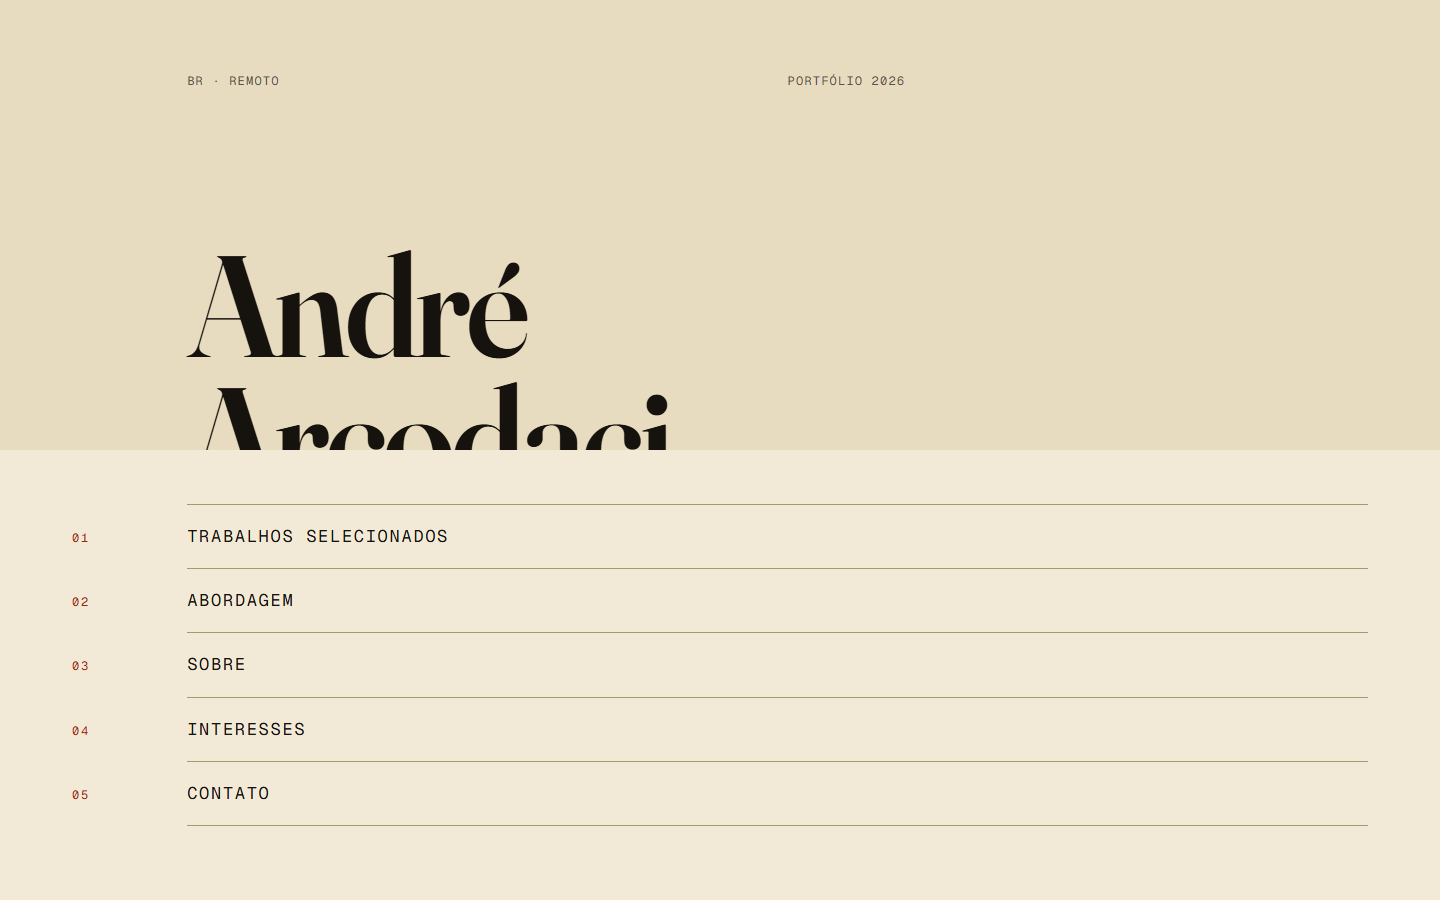
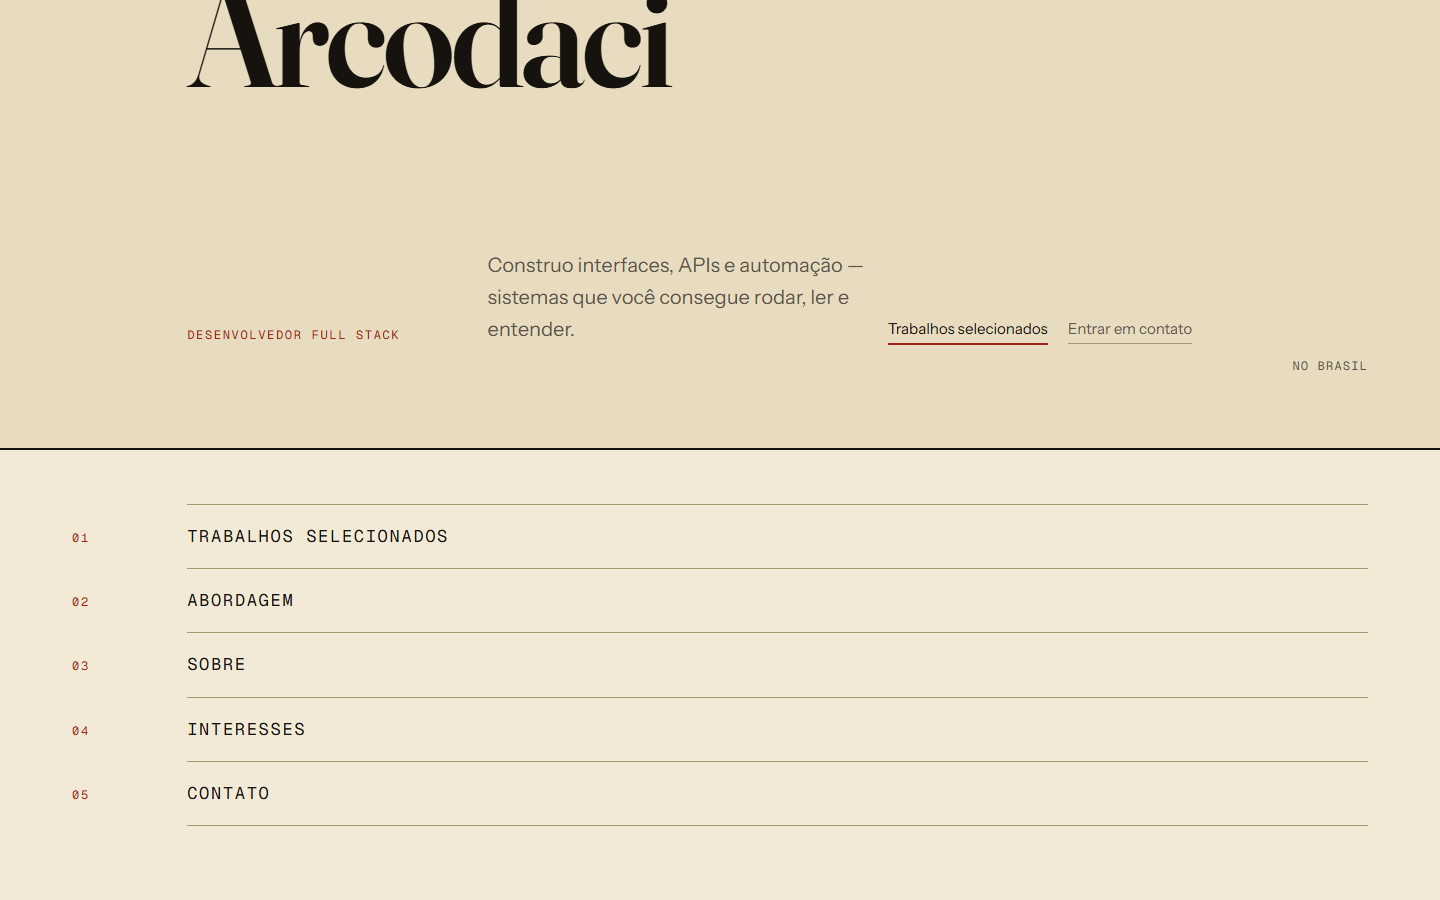
fix: CTAs clicáveis com a página rolada, hero alcançável em tela baixa e com reduced motion
- foco só por teclado e só em elemento coberto volta o hero à vista; um
  clique não move mais a página entre mousedown e mouseup
- hero preso só com o Opening ativo; sem JS e com reduced motion fica no
  fluxo, como no Gate 2
- hero mais alto que a janela prende com top negativo
- voltar do navegador para a home rolada não repete a entrada

diff --git a/src/motion/Opening.tsx b/src/motion/Opening.tsx
@@ -22,6 +22,21 @@ export function Opening({ children }: { children: ReactNode }) {
   useLayoutEffect(() => {
     const root = ref.current
     if (!root || prefersReducedMotion()) return
+    const hero = root.firstElementChild as HTMLElement | null
+    const sheet = hero?.nextElementSibling ?? null
+    // Liga o hero preso (CSS). Sem isto — sem JS, reduced motion — o hero fica
+    // no fluxo normal, como no Gate 2.
+    root.setAttribute('data-opening', '')
+
+    // Hero mais alto que a janela (celular deitado, zoom): prende com `top`
+    // negativo, para ele rolar até o fim antes de parar.
+    const measure = () => {
+      const overflow = hero ? window.innerHeight - hero.offsetHeight : 0
+      root.style.setProperty(
+        '--opening-sticky-top',
+        `${Math.min(0, overflow)}px`,
+      )
+    }
 
     const write = () => {
       const frame = openingFrame(
@@ -42,14 +57,20 @@ export function Opening({ children }: { children: ReactNode }) {
       root.style.setProperty('--opening-curve', round(frame.curveVh))
       root.toggleAttribute('data-shade', frame.shadeOpacity > 0)
     }
-    write()
+    const onResize = () => {
+      measure()
+      write()
+    }
+    onResize()
     const stopScroll = onScroll(write)
-    window.addEventListener('resize', write)
+    window.addEventListener('resize', onResize)
 
     // Entrada só para quem chega no topo; antes da primeira pintura, para o
     // nome não piscar no lugar. Com hash a página ainda está em 0 aqui (o
-    // ScrollManager rola depois), mas vai abrir rolada. Começa depois das fontes, para não revelar a
-    // fonte de fallback, e com dois frames para o estado escondido ser pintado.
+    // ScrollManager rola depois), mas vai abrir rolada. Começa depois das
+    // fontes, para não revelar a fonte de fallback, e com dois frames para o
+    // estado escondido ser pintado. Se nesse meio-tempo o navegador restaurou
+    // a posição (voltar), não há entrada: o nome aparece no lugar.
     let cancelled = false
     let timeout = 0
     const finish = () => {
@@ -58,15 +79,20 @@ export function Opening({ children }: { children: ReactNode }) {
     if (window.scrollY === 0 && !window.location.hash) {
       root.dataset.entrance = 'pending'
       const fontsReady = document.fonts?.ready ?? Promise.resolve()
-      void fontsReady.then(() =>
+      void fontsReady.then(() => {
+        if (!cancelled) measure()
         requestAnimationFrame(() =>
           requestAnimationFrame(() => {
             if (cancelled) return
+            if (window.scrollY > 0) {
+              root.removeAttribute('data-entrance')
+              return
+            }
             root.dataset.entrance = 'run'
             timeout = window.setTimeout(finish, ENTRANCE_TIMEOUT_MS)
           }),
-        ),
-      )
+        )
+      })
     }
     const onTransitionEnd = (event: TransitionEvent) => {
       const words = root.querySelectorAll('[data-motion="entrance"]')
@@ -74,10 +100,23 @@ export function Opening({ children }: { children: ReactNode }) {
     }
     root.addEventListener('transitionend', onTransitionEnd)
 
-    // Foco por teclado num elemento do hero coberto pela folha: volta ao topo.
-    const hero = root.firstElementChild
-    const onFocusIn = () => {
-      if (window.scrollY > 0) scrollToTop()
+    // Foco por teclado num elemento do hero coberto pela folha ou fora da
+    // janela: volta ao topo e traz o elemento à vista. Só teclado: um clique
+    // também foca o link, e mover a página entre mousedown e mouseup
+    // engoliria o clique.
+    const onFocusIn = (event: FocusEvent) => {
+      const target = event.target
+      if (!(target instanceof HTMLElement) || !target.matches(':focus-visible'))
+        return
+      const box = target.getBoundingClientRect()
+      const visibleBottom = Math.min(
+        window.innerHeight,
+        sheet?.getBoundingClientRect().top ?? Infinity,
+      )
+      if (box.top >= 0 && box.bottom <= visibleBottom) return
+      scrollToTop()
+      write()
+      target.scrollIntoView({ block: 'nearest' })
     }
     hero?.addEventListener('focusin', onFocusIn)
 
@@ -85,11 +124,12 @@ export function Opening({ children }: { children: ReactNode }) {
       cancelled = true
       window.clearTimeout(timeout)
       stopScroll()
-      window.removeEventListener('resize', write)
+      window.removeEventListener('resize', onResize)
       root.removeEventListener('transitionend', onTransitionEnd)
       hero?.removeEventListener('focusin', onFocusIn)
       root.removeAttribute('data-entrance')
       root.removeAttribute('data-shade')
+      root.removeAttribute('data-opening')
       root.removeAttribute('style')
     }
   }, [])

diff --git a/e2e/opening.spec.ts b/e2e/opening.spec.ts
@@ -147,7 +147,100 @@ test.describe('abertura da home', () => {
       )
       .toBe(true)
   })
+
+  test('clicar no CTA com a página um pouco rolada navega', async ({
+    page,
+  }) => {
+    await page.setViewportSize({ width: 1440, height: 900 })
+    await page.goto('/')
+    await expect(page.locator('[data-entrance]')).toHaveAttribute(
+      'data-entrance',
+      'done',
+    )
+    await page.mouse.move(700, 450)
+    await page.mouse.wheel(0, 150)
+    await settle(page)
+    await page
+      .getByRole('region', { name: site.person.name })
+      .getByRole('link', { name: site.hero.ctaPrimary })
+      .click()
+    await expect.poll(() => new URL(page.url()).hash).toBe('#work')
+  })
+
+  test('voltar do navegador para a home rolada não repete a entrada', async ({
+    page,
+  }) => {
+    await page.goto('/')
+    await expect(page.locator('[data-entrance]')).toHaveAttribute(
+      'data-entrance',
+      'done',
+    )
+    await page.mouse.move(700, 400)
+    await page.mouse.wheel(0, 300)
+    await settle(page)
+    await page.getByRole('link', { name: /Token Killer/ }).click()
+    await expect(page).toHaveURL(/\/work\/token-killer$/)
+    await page.goBack()
+    await expect.poll(() => settle(page)).toBeGreaterThan(0)
+    expect(await page.locator('[data-entrance]').count()).toBe(0)
+  })
 })
+
+/** Tela baixa: celular deitado, ou zoom de 200 % num notebook de 1280 × 720. */
+for (const reducedMotion of ['no-preference', 'reduce'] as const) {
+  test.describe(`tela baixa · ${reducedMotion}`, () => {
+    test.use({ reducedMotion, viewport: { width: 640, height: 360 } })
+
+    test('o mouse alcança os CTAs rolando', async ({ page }) => {
+      await page.goto('/')
+      const cta = page
+        .getByRole('region', { name: site.person.name })
+        .getByRole('link', { name: site.hero.ctaSecondary })
+      let seen = false
+      for (let y = 0; y <= 1200 && !seen; y += 40) {
+        await page.evaluate((y) => window.scrollTo(0, y), y)
+        await settle(page)
+        seen = await cta.evaluate((el) => {
+          const box = el.getBoundingClientRect()
+          const hit = document.elementFromPoint(
+            box.left + box.width / 2,
+            box.top + box.height / 2,
+          )
+          return hit !== null && el.contains(hit)
+        })
+      }
+      expect(seen).toBe(true)
+    })
+
+    test('Tab até o CTA o traz à vista', async ({ page }) => {
+      await page.goto('/')
+      await page.evaluate(() => document.fonts.ready.then(() => true))
+      for (let i = 0; i < 12; i++) {
+        await page.keyboard.press('Tab')
+        const label = await page.evaluate(
+          () => document.activeElement?.textContent,
+        )
+        if (label === site.hero.ctaSecondary) break
+      }
+      const cta = page
+        .getByRole('region', { name: site.person.name })
+        .getByRole('link', { name: site.hero.ctaSecondary })
+      await expect(cta).toBeFocused()
+      await expect
+        .poll(() =>
+          cta.evaluate((el) => {
+            const box = el.getBoundingClientRect()
+            const hit = document.elementFromPoint(
+              box.left + box.width / 2,
+              box.top + box.height / 2,
+            )
+            return hit !== null && el.contains(hit)
+          }),
+        )
+        .toBe(true)
+    })
+  })
+}
 
 test.describe('abertura com reduced motion', () => {
   test.use({ reducedMotion: 'reduce' })
@@ -159,5 +252,36 @@ test.describe('abertura com reduced motion', () => {
       .evaluateAll((words) => words.map((w) => getComputedStyle(w).transform))
     expect(transforms).toEqual(['none', 'none'])
     expect(await page.locator('[data-entrance]').count()).toBe(0)
+  })
+
+  test('Shift+Tab do índice para o CTA do hero o deixa à vista', async ({
+    page,
+  }) => {
+    await page.setViewportSize({ width: 1440, height: 900 })
+    await page.goto('/')
+    await page.evaluate(() => window.scrollTo(0, 900))
+    await settle(page)
+    await page
+      .getByRole('navigation', { name: site.release.label })
+      .getByRole('link')
+      .first()
+      .focus()
+    await page.keyboard.press('Shift+Tab')
+    const cta = page
+      .getByRole('region', { name: site.person.name })
+      .getByRole('link', { name: site.hero.ctaSecondary })
+    await expect(cta).toBeFocused()
+    await expect
+      .poll(() =>
+        cta.evaluate((el) => {
+          const box = el.getBoundingClientRect()
+          const hit = document.elementFromPoint(
+            box.left + box.width / 2,
+            box.top + box.height / 2,
+          )
+          return hit !== null && el.contains(hit)
+        }),
+      )
+      .toBe(true)
   })
 })

diff --git a/src/motion/Opening.test.tsx b/src/motion/Opening.test.tsx
@@ -79,6 +79,16 @@ describe('Opening', () => {
     expect(root(container)).toHaveAttribute('data-shade')
   })
 
+  it('se o navegador restaura a posição antes da entrada, ela não roda', async () => {
+    setWindow(0)
+    const { container } = renderOpening()
+    expect(root(container)).toHaveAttribute('data-entrance', 'pending')
+    setWindow(300)
+    await waitFor(() =>
+      expect(root(container)).not.toHaveAttribute('data-entrance'),
+    )
+  })
+
   it('deep link com hash: sem entrada, mesmo antes de rolar', () => {
     setWindow(0)
     window.history.replaceState(null, '', '/#work')
@@ -101,11 +111,13 @@ describe('Opening', () => {
     expect(root(container)).not.toHaveAttribute('data-shade')
   })
 
-  it('foco no hero com a página rolada volta ao topo', () => {
+  // O caso do teclado depende de layout real e de :focus-visible: está em
+  // e2e/opening.spec.ts (Shift+Tab, tela baixa).
+  it('foco que não é de teclado (clique) não mexe no scroll', () => {
     setWindow(900)
     renderOpening()
     fireEvent.focusIn(screen.getByRole('link', { name: 'Get in touch' }))
-    expect(scrollToTop).toHaveBeenCalledTimes(1)
+    expect(scrollToTop).not.toHaveBeenCalled()
   })
 
   it('foco no índice não mexe no scroll', () => {

diff --git a/src/sections/Hero/Hero.module.css b/src/sections/Hero/Hero.module.css
@@ -13,13 +13,20 @@
   border-bottom: 2px solid var(--ink);
   /* Abertura da home: as `--opening-*` são escritas pelo `Opening`
      (src/motion/) a cada scroll; os padrões são o estado estático. */
-  /* Preso no topo dentro do `Opening`, que termina junto com o Release: a
-     folha sobe por cima e depois o hero sai com ela. */
-  position: sticky;
-  top: 0;
-  z-index: 0;
+  position: relative;
   overflow-x: clip;
   transform: scale(var(--opening-hero-scale, 1));
+}
+
+/* Preso no topo só quando o `Opening` está ativo (`data-opening`; nunca sem JS
+   nem com reduced motion, em que o hero fica no fluxo como no Gate 2). O
+   `Opening` termina junto com o Release: a folha sobe por cima e depois o hero
+   sai com ela. `--opening-sticky-top` é negativo quando o hero não cabe na
+   janela, para ele rolar até o fim antes de parar. */
+[data-opening] .hero {
+  position: sticky;
+  top: var(--opening-sticky-top, 0px);
+  z-index: 0;
 }
 
 /* Sombra da folha que sobe por cima. Escondida em repouso: uma camada

diff --git a/docs/MOTION_SPEC.md b/docs/MOTION_SPEC.md
@@ -22,7 +22,9 @@ Valem para todo efeito, este e os próximos. Vêm de `docs/SPEC.md` §5.
   escondido só existe sob um atributo que o script aplica quando vai animar.
 - **Navegação nunca espera animação:** links funcionam em `t = 0`; troca de
   idioma e abertura de case study não aguardam nada.
-- **Teclado:** foco num elemento coberto por movimento o traz de volta à vista.
+- **Teclado:** foco por teclado num elemento coberto por movimento o traz de
+  volta à vista. Só teclado (`:focus-visible`): um clique também foca, e mover
+  a página entre mousedown e mouseup engoliria o clique.
 - **Desempenho:** só `transform` e `opacity` animam, mais a altura do
   pseudo-elemento da curva. Um laço de `requestAnimationFrame` só (o do Lenis);
   nenhum estado React por frame.
@@ -76,12 +78,12 @@ Valem para todo efeito, este e os próximos. Vêm de `docs/SPEC.md` §5.
 | | |
 |---|---|
 | Objetivo | A virada de página: o índice sobe por cima do hero (D-Release) |
-| Elemento | O Release (folha `--surface`) sobe no fluxo; o hero fica preso no topo, encolhe e escurece; em volta dele aparece `--ink` |
+| Elemento | O Release (folha `--surface`) sobe no fluxo; o hero fica preso no topo (`[data-opening]`; com `top` negativo se não couber na janela, para rolar até o fim antes de parar), encolhe e escurece; em volta dele aparece `--ink` |
 | Gatilho | Scroll, nos dois sentidos |
 | Estado inicial | Borda reta, hero em `scale(1)`, sem sombra |
 | Estado final | Curva `sin(π·p) × 14 vh` (≥ 768 px) ou `× 7 vh` (< 768 px): zero no começo e no fim, máxima no meio; hero até `scale(0.94)`; sombra de `--ink` transparente → 55 %, até opacidade 0,9 |
 | Duração e easing | Acompanha o scroll |
-| Reduced motion | Sem curva, escala nem sombra. O hero continua preso e a folha sobe por cima — é o próprio scroll, não animação |
+| Reduced motion | Sem curva, escala nem sombra, e o hero no fluxo normal, como no Gate 2 (preso, um Shift+Tab deixaria o foco sob a folha) |
 | Sem JS | Igual ao reduced motion |
 | Limitação aceita | A folha cobre o nome antes do afastamento terminar (ver `docs/BACKLOG.md`) |
 | Evidência | `docs/gate-3/` |

diff --git a/docs/gate-3/README.md b/docs/gate-3/README.md
@@ -59,8 +59,8 @@ Geradas por `npx playwright test --project=capture e2e/gate-3.capture.ts`, em
 
 - `p0`, `p50`, `p100`: depois da entrada, com a página rolada 0, meia e uma
   altura de tela.
-- `reduce-p50`: com reduced motion, meia tela rolada — hero parado, folha
-  subindo por cima, sem curva, escala nem sombra.
+- `reduce-p50`: com reduced motion, meia tela rolada — o hero no fluxo
+  normal, rolando como no Gate 2; sem curva, escala nem sombra.
 
 `pnpm capture` também regrava `docs/gate-2/`; desde esta fase aquelas capturas
 usam reduced motion, que é o site do Gate 2.
